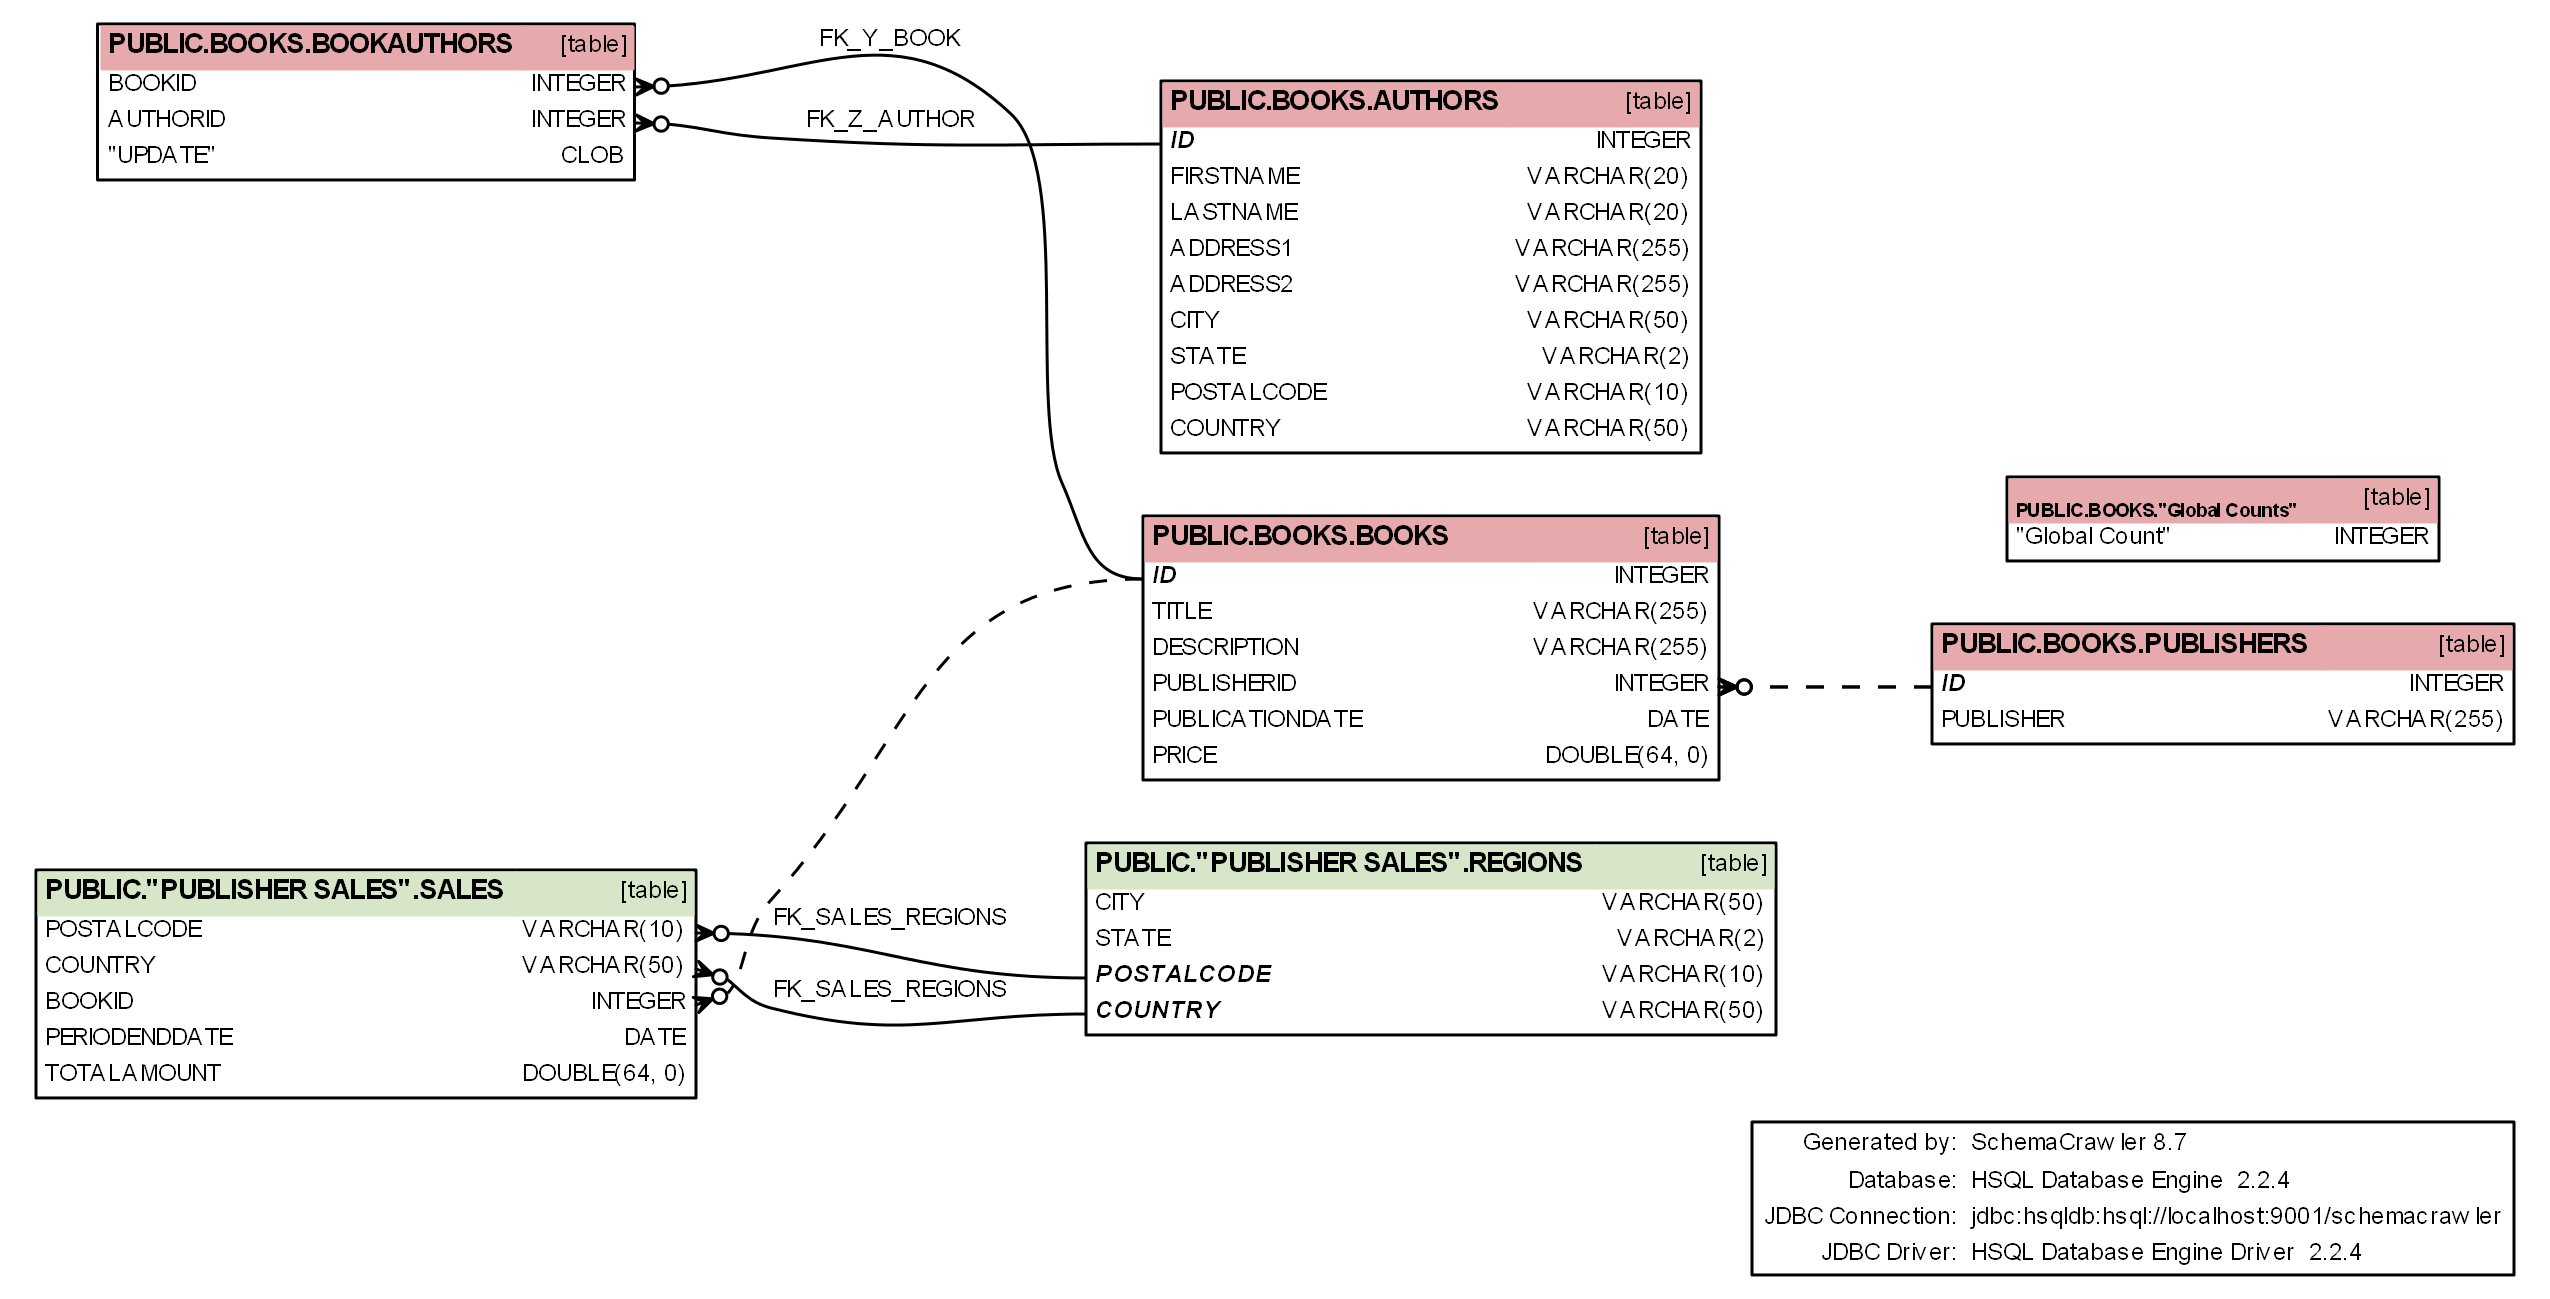
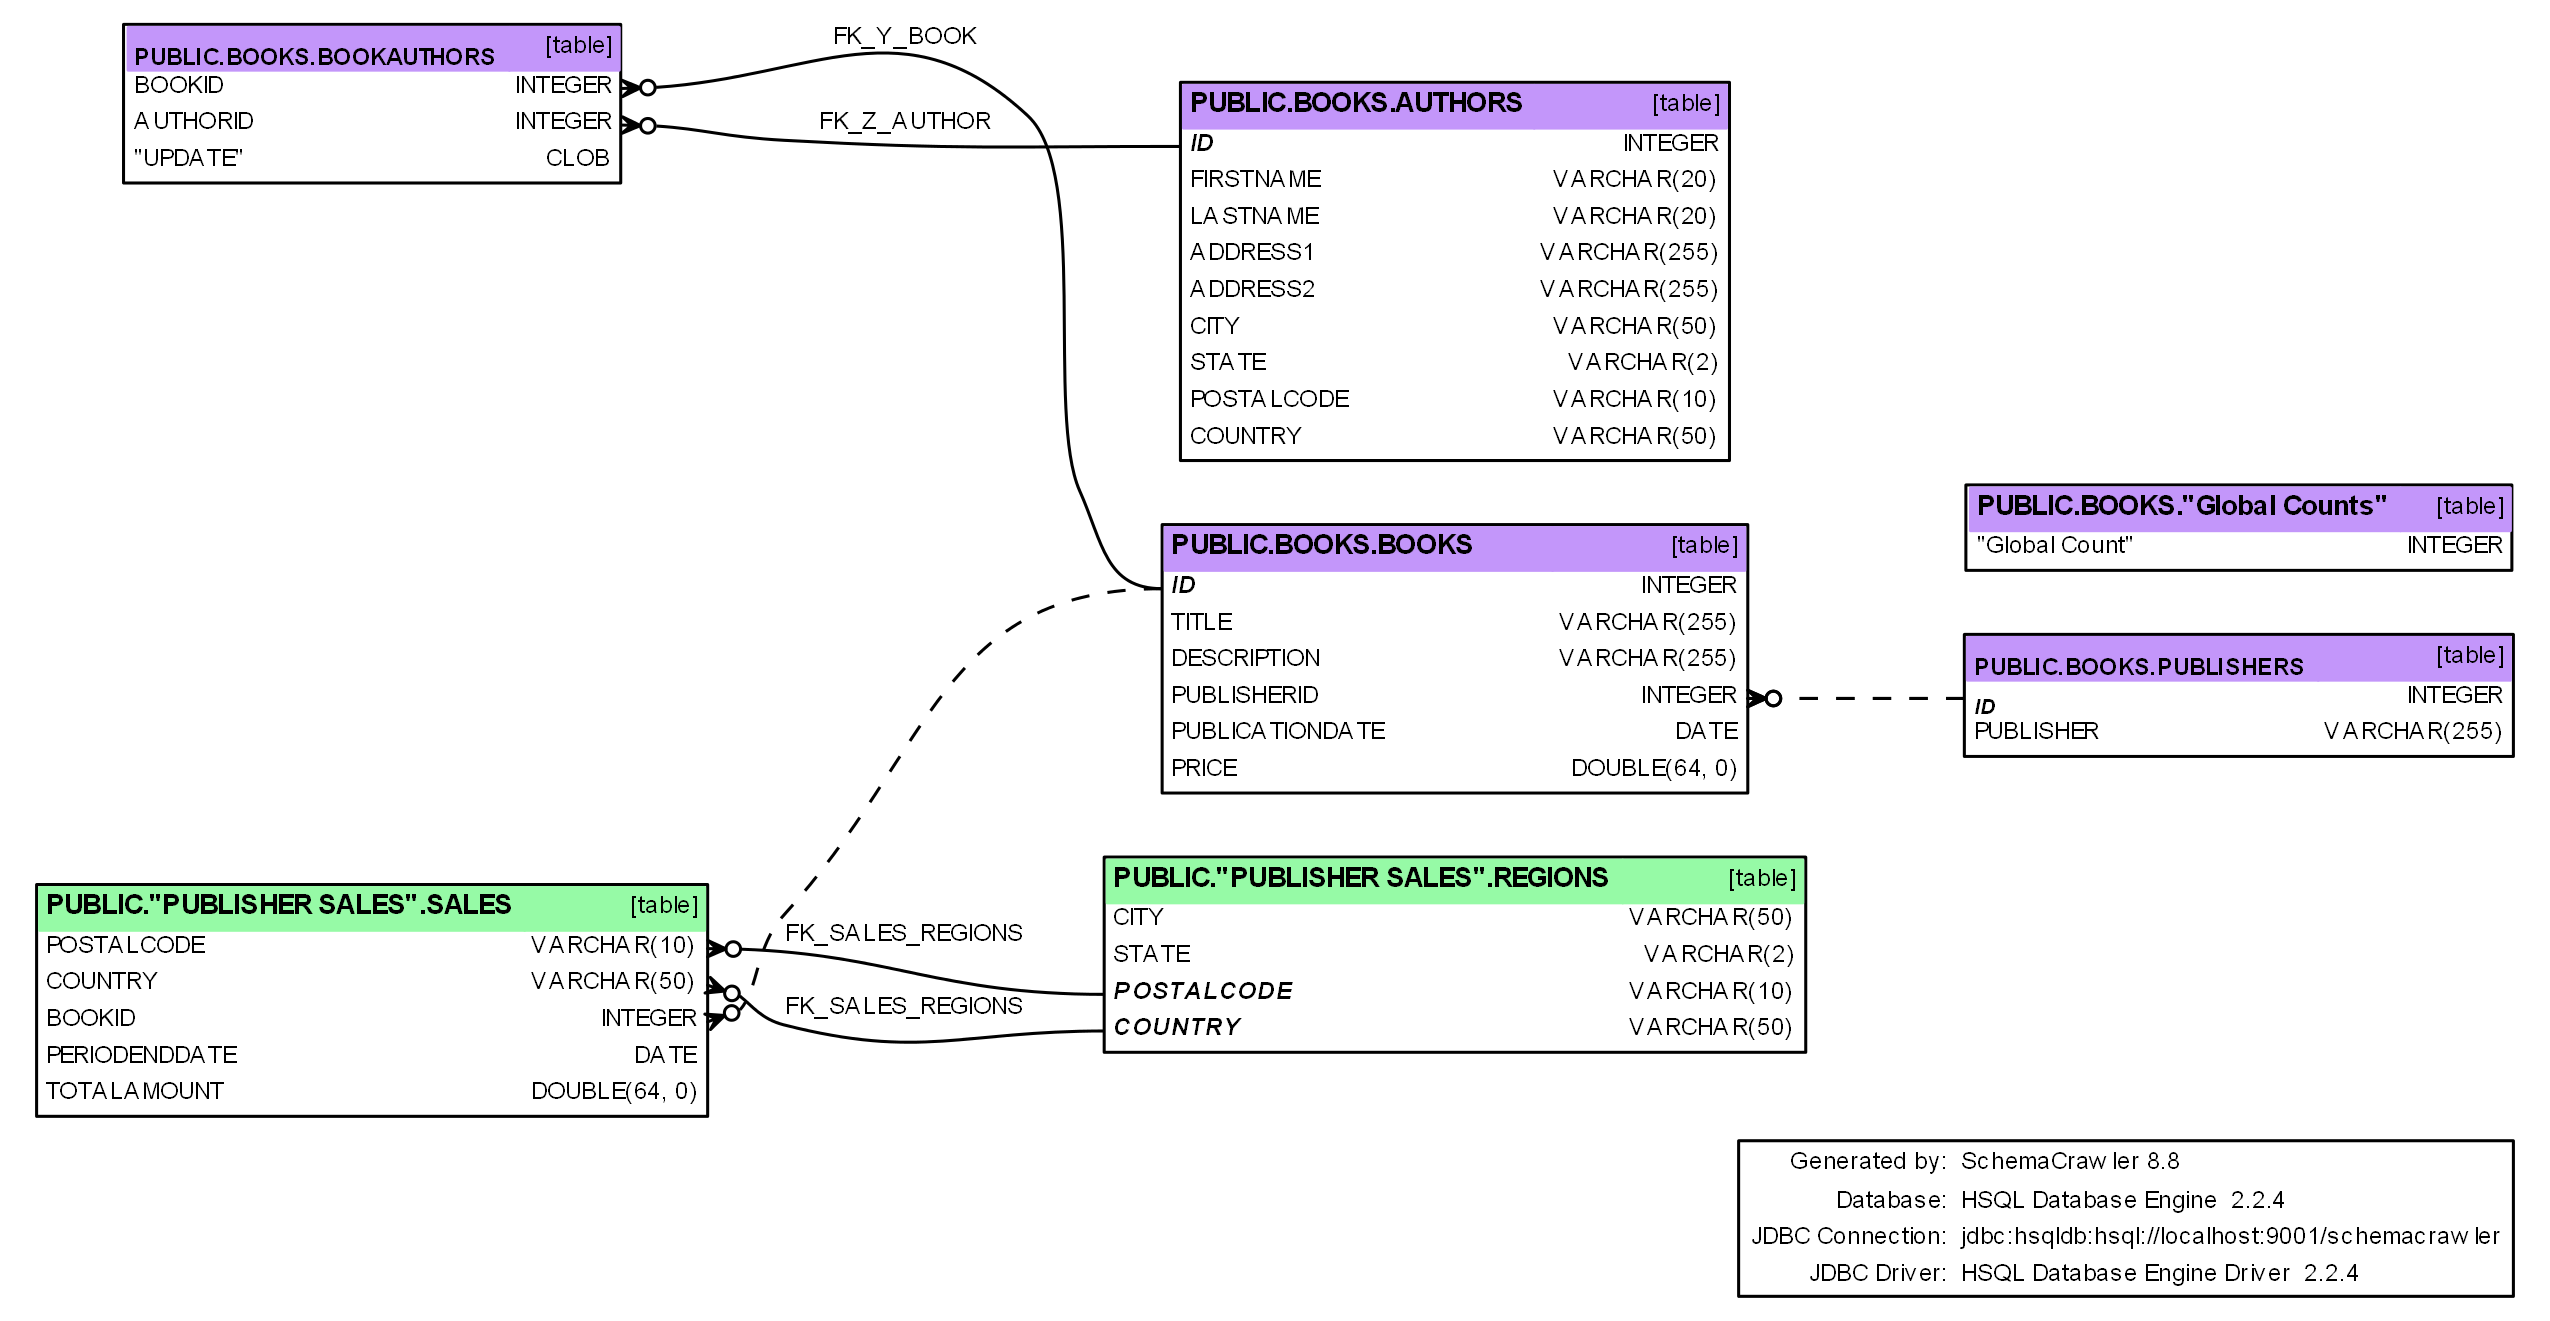
git-svn-id: svn://svn.code.sf.net/p/schemacrawler/code/trunk@2180 3243f2e7-4e1b-42d2-9742-d984016aa316

diff --git a/schemacrawler-integrations/src/main/java/schemacrawler/tools/integration/graph/DotWriter.java b/schemacrawler-integrations/src/main/java/schemacrawler/tools/integration/graph/DotWriter.java
@@ -28,7 +28,6 @@ import java.io.PrintWriter;
 import java.util.Collection;
 import java.util.HashMap;
 import java.util.Map;
-import java.util.Random;
 import java.util.UUID;
 
 import schemacrawler.schema.Column;
@@ -49,20 +48,20 @@ import sf.util.Utility;
 final class DotWriter
 {
 
-  private static final Random random = new Random(DotWriter.class.getName()
-    .hashCode());
+  private static float random = 0.123456f;
 
-  private static String nextRandomHTMLPastelColorValue(final long seed)
+  private static String nextRandomHTMLPastelColorValue()
   {
-    random.setSeed(seed);
-    for (int i = 0; i < random.nextInt(64); i++)
-    {
-      random.nextInt();
-    }
-    final float hue = random.nextFloat();
-    // Saturation between 0.1 and 0.3
-    final float saturation = (random.nextInt(2000) + 1000) / 10000f;
-    final float luminance = 0.9f;
+    final float golden_ratio_conjugate = 0.618033988749895f;
+
+    float hue = random;
+    hue += golden_ratio_conjugate;
+    hue %= 1;
+    random = hue;
+
+    final float saturation = 0.4f;
+    final float luminance = 0.98f;
+
     final Color color = Color.getHSBColor(hue, saturation, luminance);
 
     return "#" + Integer.toHexString(color.getRGB()).substring(2).toUpperCase();
@@ -253,8 +252,7 @@ final class DotWriter
     final String tableNameBgColor;
     if (!colorMap.containsKey(schema))
     {
-      tableNameBgColor = nextRandomHTMLPastelColorValue(schema.getFullName()
-        .hashCode());
+      tableNameBgColor = nextRandomHTMLPastelColorValue();
       colorMap.put(schema, tableNameBgColor);
     }
     else
